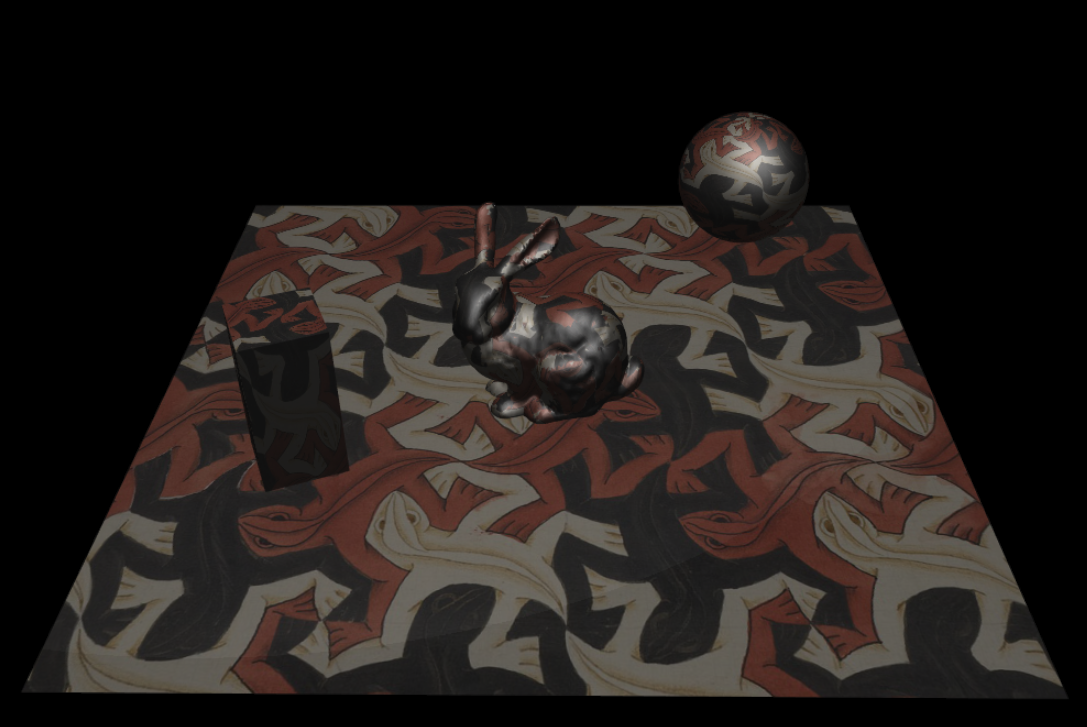
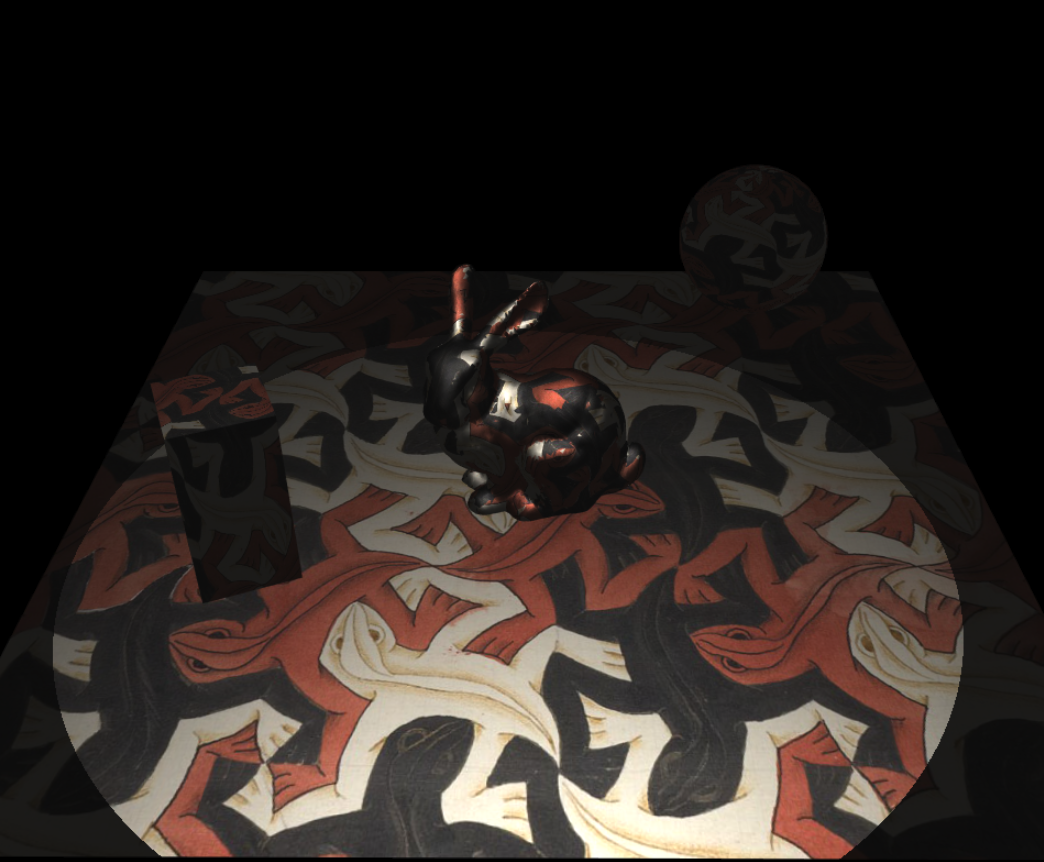
fixed Phong Blinn and took new screenshot

diff --git a/examples/shared/phong-blinn.js b/examples/shared/phong-blinn.js
@@ -33,6 +33,8 @@ export default class PhongBlinnShader extends Shader {
       uniform vec3 uSpotPos;
       uniform vec3 uSpotDir;
       uniform float uSpotLimit;
+      uniform float uSpotIntensity;
+      uniform vec3 uCamPos;
 
       in vec2 vTextureCoord;
       in vec3 vVertPos;
@@ -44,26 +46,22 @@ export default class PhongBlinnShader extends Shader {
         vec3 diffuse = texture(uSpotMap, vTextureCoord).rgb;
         vec3 specColor = vec3(1.0);
 
-        // vec3 fdx = vec3(dFdx(vVertPos.x),dFdx(vVertPos.y),dFdx(vVertPos.z));
-        // vec3 fdy = vec3(dFdy(vVertPos.x),dFdy(vVertPos.y),dFdy(vVertPos.z));
-        vec3 normal = vNormal; // normalize(cross(fdx, fdy));
-        vec3 dirToSpot = normalize(uSpotPos - vVertPos);
+        vec3 normal = vNormal;
 
-        float lambertian = max(dot(dirToSpot,normal), 0.0);
+        vec3 fromSpot = normalize(uSpotPos - vVertPos);
+        float lambertian = max(dot(normal, fromSpot), 0.0);
         float specular = 0.0;
         float shininess = 10.0;
-        float ambient = 0.2;
+        vec3 ambient = vec3(0.2);
 
-        if (lambertian > 0.0 && dot(-uSpotDir, dirToSpot) >= uSpotLimit) {
-          vec3 viewDir = normalize(-vVertPos);
-          vec3 halfDir = normalize(viewDir-uSpotDir);
-          float specAngle = max(dot(halfDir, normal), 0.0);
-          specular = pow(specAngle, shininess);
+        if (lambertian > 0.0 && dot(normalize(uSpotDir), -fromSpot) >= uSpotLimit) {
+          vec3 fromView = normalize(uCamPos - vVertPos);
+          vec3 halfDir = normalize(fromView + fromSpot);
+          specular = pow(max(dot(normal, halfDir), 0.0), shininess);
         }
 
         fragColor = vec4(
-          diffuse * max(lambertian, ambient) +
-          specColor * specular,
+          diffuse * (ambient + uSpotIntensity * specColor * specular),
           1.0);
         
         fragColor.rgb *= 0.454545;
@@ -84,6 +82,8 @@ export default class PhongBlinnShader extends Shader {
     this.addUniform('uSpotPos');
     this.addUniform('uSpotDir');
     this.addUniform('uSpotLimit');
+    this.addUniform('uSpotIntensity');
+    this.addUniform('uCamPos');
 
   }
 
@@ -102,8 +102,22 @@ export default class PhongBlinnShader extends Shader {
       spot.direction[2]
     );
     this.gl.uniform1f(
+      this.shaderLocations.uniformLocations.uSpotIntensity,
+      spot.intensity
+    );
+    this.gl.uniform1f(
       this.shaderLocations.uniformLocations.uSpotLimit,
       Math.cos(spot.angle * Math.PI / 180)
+    );
+  }
+
+  updateCamera(camera) {
+    this.gl.useProgram(this.shaderProgram);
+    this.gl.uniform3f(
+      this.shaderLocations.uniformLocations.uCamPos,
+      camera.translation[0],
+      camera.translation[1],
+      camera.translation[2]
     );
   }
 }

diff --git a/examples/scene/app.js b/examples/scene/app.js
@@ -39,12 +39,12 @@ async function init() {
   vec3.set(camera.translation, 0, 1, 0);
   vec3.set(camera.rotation, -10, 0, 0);
 
-  spot = new SpotLight('spot', 1.0, vec3.fromValues(1.0, 1.0, 1.0), 0.5);
+  spot = new SpotLight('spot', 3.0, vec3.fromValues(1.0, 1.0, 1.0), 20);
   vec3.set(spot.translation, 0, 5, -3);
   vec3.set(spot.direction, 0, -1, 0);
 
   shapePivot = new Model('pivot', null, scene, null, null);
-  vec3.set(shapePivot.translation, 0, 0, -3);
+  vec3.set(shapePivot.translation, 0, 0, -5);
 
   const loaded = await Promise.all([
     loadTexture('../shared/escher.jpg'),
@@ -58,6 +58,7 @@ async function init() {
   const bunny = new Model('bunny', bunnyMesh, shapePivot, bunnyShader);
   bunny.textures.push(lizardTex);
   bunnyShader.updateSpot(spot);
+  bunnyShader.updateCamera(camera);
 
   const planeMesh = new PlaneMesh(5, 5, 5, 5);
   const plane = new Model('plane', planeMesh, shapePivot, bunnyShader);
@@ -87,7 +88,7 @@ async function init() {
 function animate(ts) {
   requestAnimationFrame(animate);
   ts = ts / 1000;
-  vec3.set(spot.direction, 0.25 * Math.sin(ts), -0.5 - 0.25 * Math.cos(ts / 2), -1);
+  vec3.set(spot.direction, 0.25 * Math.sin(ts), -1, -0.5 - 0.25 * Math.cos(ts / 2));
   bunnyShader.updateSpot(spot);
 
   gl.bindFramebuffer(gl.FRAMEBUFFER, null);
